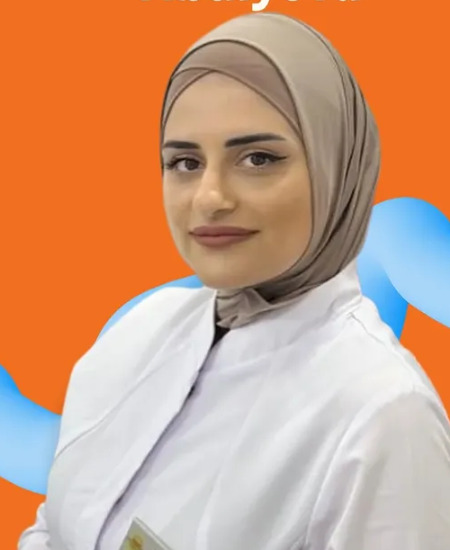
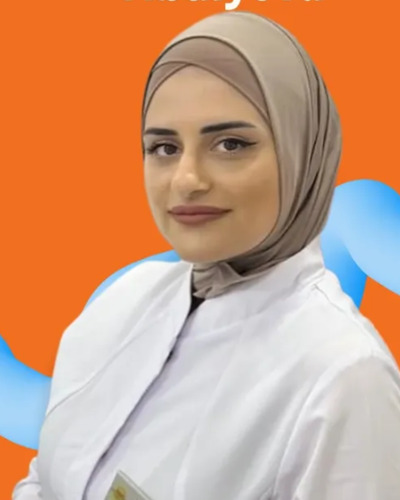
Fix doctor photo framing and responsive aspect ratio

diff --git a/style.css b/style.css
@@ -997,7 +997,9 @@ button, input, select, textarea {
 }
 
 .doctor-photo-wrap {
-  height: 250px;
+  width: 100%;
+  aspect-ratio: 1 / 1.15;
+  min-height: 260px;
   overflow: hidden;
   background-color: #F8FAFC;
 }
@@ -1006,7 +1008,7 @@ button, input, select, textarea {
   width: 100%;
   height: 100%;
   object-fit: cover;
-  object-position: top center;
+  object-position: center 15%;
   transition: transform var(--transition-normal);
 }
 
